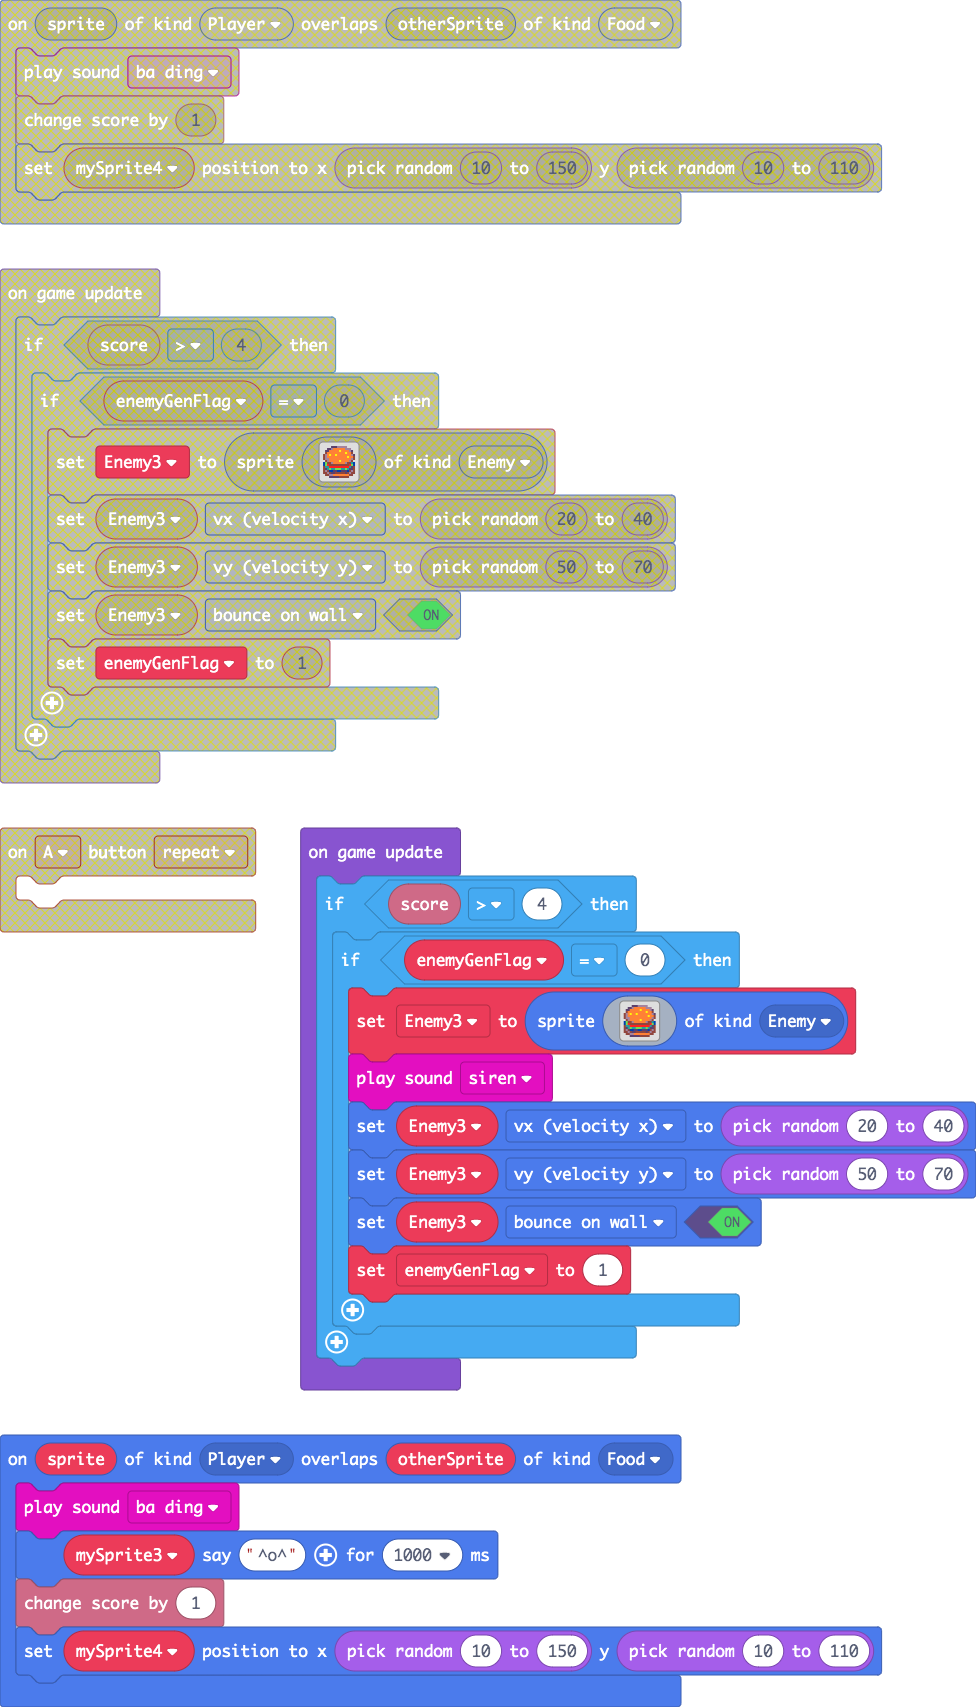
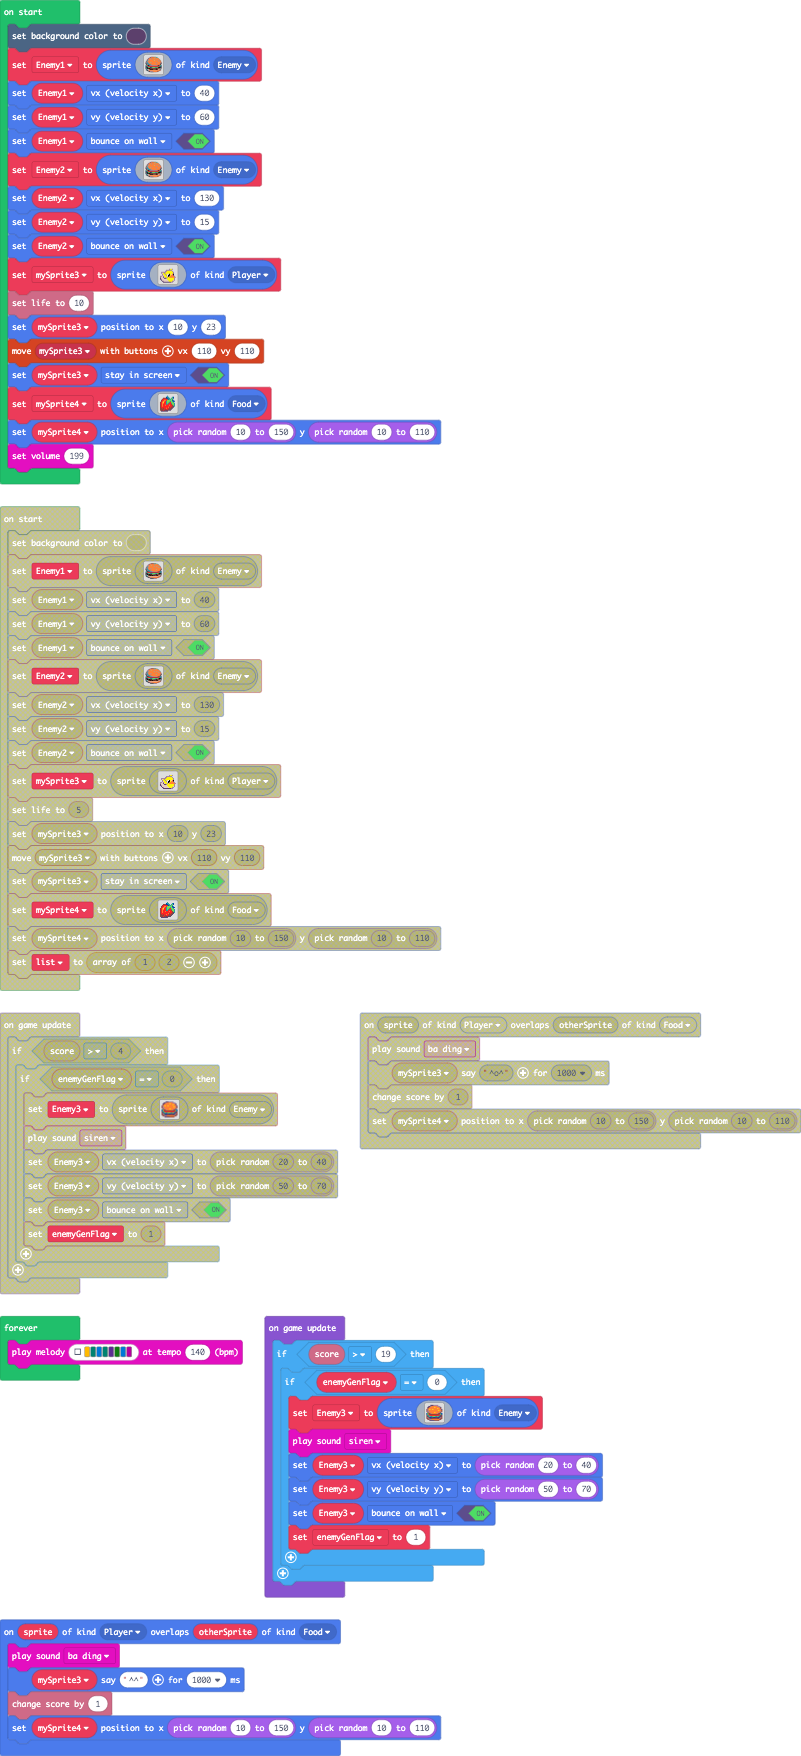
edit some parameter

diff --git a/main.ts b/main.ts
@@ -1,6 +1,6 @@
 sprites.onOverlap(SpriteKind.Player, SpriteKind.Food, function (sprite, otherSprite) {
     music.baDing.play()
-    mySprite3.say("^o^", 1000)
+    mySprite3.say("^^", 1000)
     info.changeScoreBy(1)
     mySprite4.setPosition(Math.randomRange(10, 150), Math.randomRange(10, 110))
 })
@@ -113,7 +113,7 @@ c b d d d d d 5 5 5 5 5 5 5 b .
 . . c b d d d d d 5 5 5 b b . . 
 . . . c c c c c c c c b b . . . 
 `, SpriteKind.Player)
-info.setLife(5)
+info.setLife(10)
 mySprite3.setPosition(10, 23)
 controller.moveSprite(mySprite3, 110, 110)
 mySprite3.setFlag(SpriteFlag.StayInScreen, true)
@@ -136,9 +136,9 @@ e e e 2 e e c e c c c . . . . .
 . c c c c c c c . . . . . . . . 
 `, SpriteKind.Food)
 mySprite4.setPosition(Math.randomRange(10, 150), Math.randomRange(10, 110))
-let list = [1, 2]
+music.setVolume(199)
 game.onUpdate(function () {
-    if (info.score() > 4) {
+    if (info.score() > 19) {
         if (enemyGenFlag == 0) {
             Enemy3 = sprites.create(img`
 . . . . c c c b b b b b . . . . 
@@ -170,4 +170,7 @@ forever(function () {
     console.logValue("x", controller.acceleration(ControllerDimension.X))
     console.logValue("y", controller.acceleration(ControllerDimension.Y))
     mySprite3.setVelocity(Math.map(controller.acceleration(ControllerDimension.X), -30, 30, 0, 60), Math.map(controller.acceleration(ControllerDimension.Y), -500, -400, 120, 0))
+})
+forever(function () {
+    music.playMelody("A F E F D G E C ", 140)
 })
